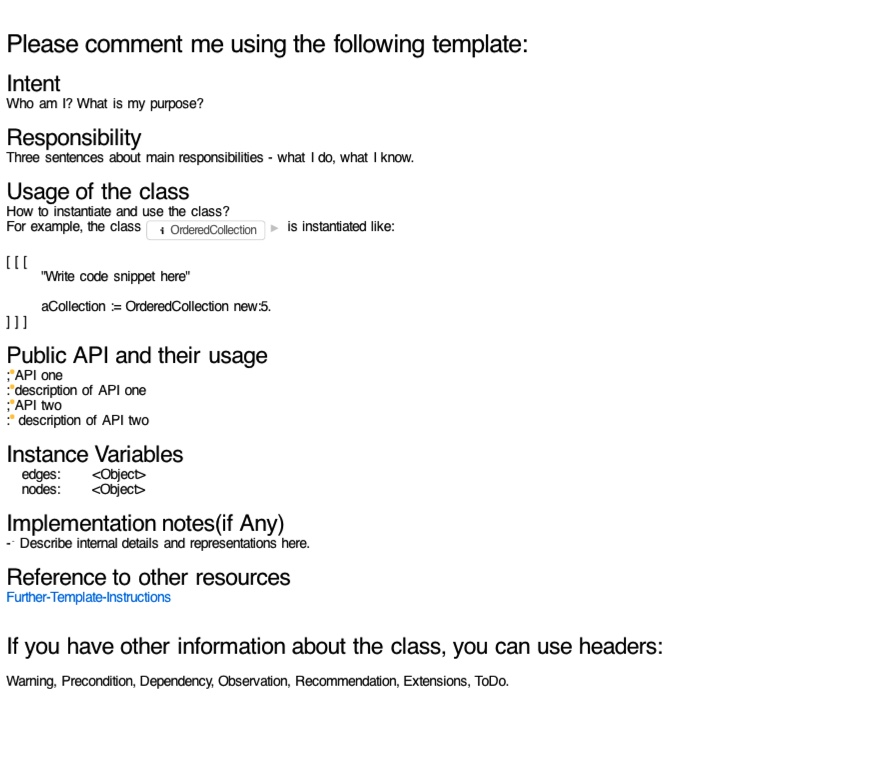
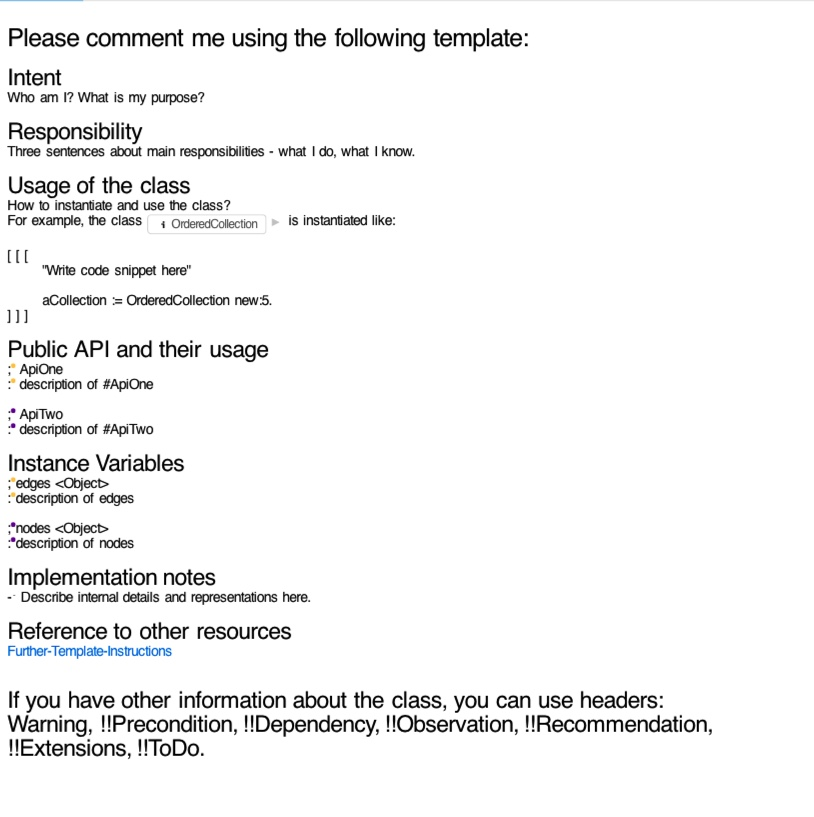
moodify existing template

Changed region(s): [[0.0, 0.0312, 0.8907, 0.9375]]

diff --git a/Template.md b/Template.md
@@ -23,16 +23,21 @@ For example, the class ${class:OrderedCollection}$ is instantiated like:
 ] ] ]
 
 !!Public API and their usage
-;API one
-:description of API one   
-;API two
-: description of API two   
+; ApiOne
+: description of #ApiOne 
+  
+; ApiTwo
+: description of #ApiTwo   
+ 
 
 !!Instance Variables
-    edges:        <Object>
-    nodes:        <Object>
+; edges <Object>
+: description of edges
+
+; nodes <Object>
+: description of nodes
             
-!!Implementation notes(if Any)
+!!Implementation notes
 - Describe internal details and representations here.
 
 `` !!Reference to other resources
@@ -40,15 +45,50 @@ For example, the class ${class:OrderedCollection}$ is instantiated like:
 
 
 !!If you have other information about the class, you can use headers: 
-
 Warning, Precondition, Dependency, Observation, Recommendation, Extensions, ToDo.``
 
 ## The template is rendered as https://github.com/poojaruhal/CommentAnalysisInPharo/images/template.png
 
 # More Details About Template
-- The template supports various headers. Developers can use existing header and can define their own headers for extra information.
+In this section we cover more examples about each section, what each section expects.
 
-## Existing headers the template support are:
+!!Intent  
+This section contains information about the purpose of the class.
+
+!!Responsibility
+E.g I know about browser class. I implement basic bahavior.
+
+!!Usage of the class
+How to instantiate and use the class?
+For example, the class ${class:OrderedCollection}$ is instantiated like:
+
+[ [ [ 
+			"Write code snippet here"
+
+			aCollection := OrderedCollection new:5.
+] ] ]
+
+!!Public API and their usage
+; collectValues
+: Collect values from the object and return a new collection.
+ 
+ 
+
+!!Instance Variables
+; edges <Object>
+: edges connect two nodes.
+
+; nodes <Object>
+: a list of graph nodes 
+            
+!!Implementation notes
+This section contains details about the implementation specific points for the class.
+- e.g The formula used to calculate size =  2 * wi * pi.
+
+
+#The template supports various headers. Developers can use existing header and can define their own headers for extra information.
+
+## Existing extra headers the template supports are:
 !Extension
 Describe how you class can be extended further. 
 
